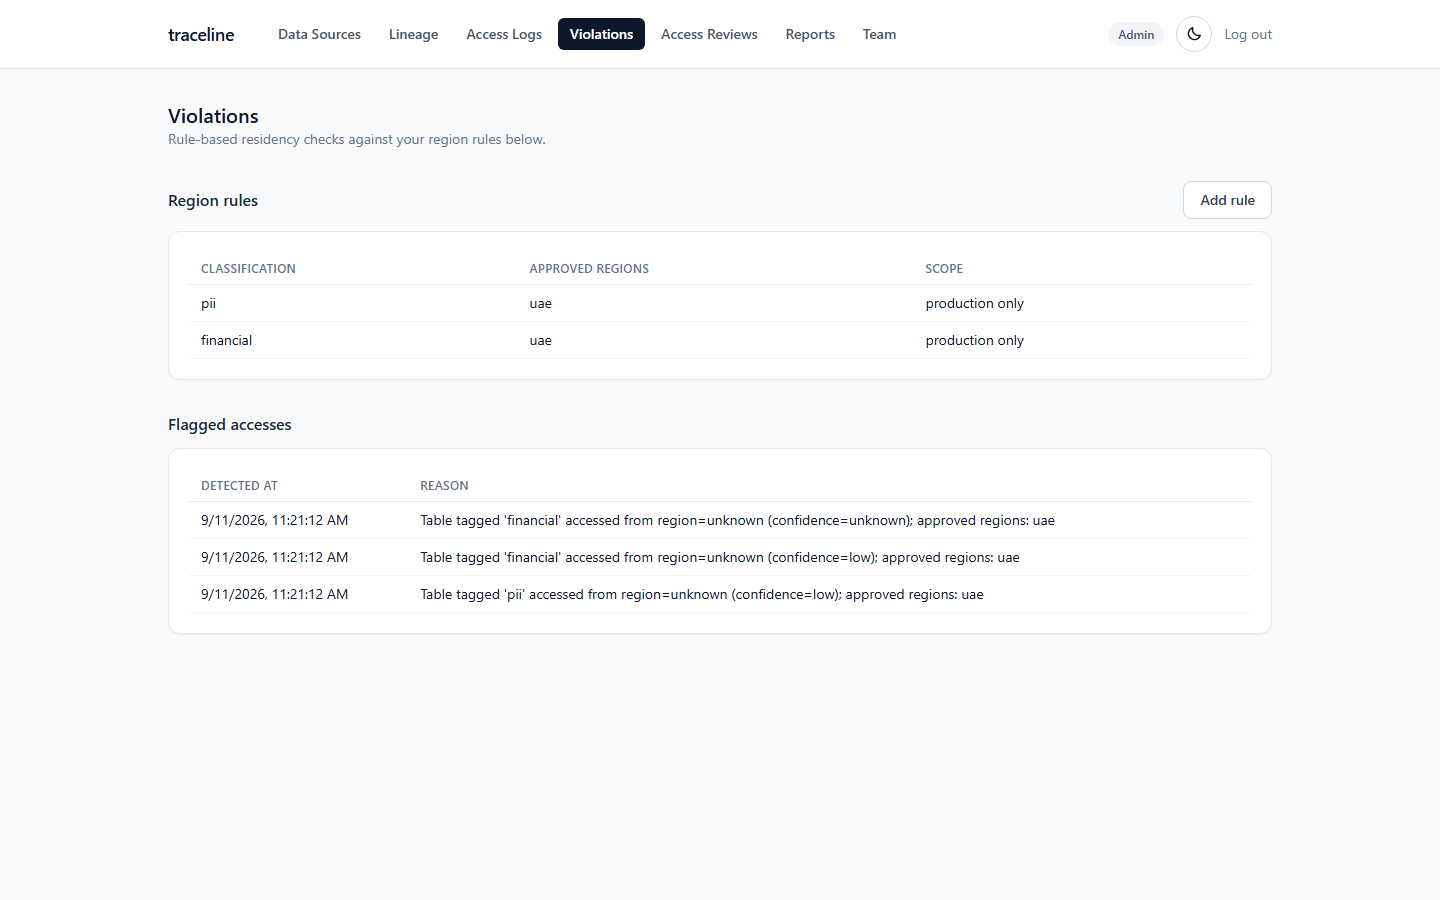
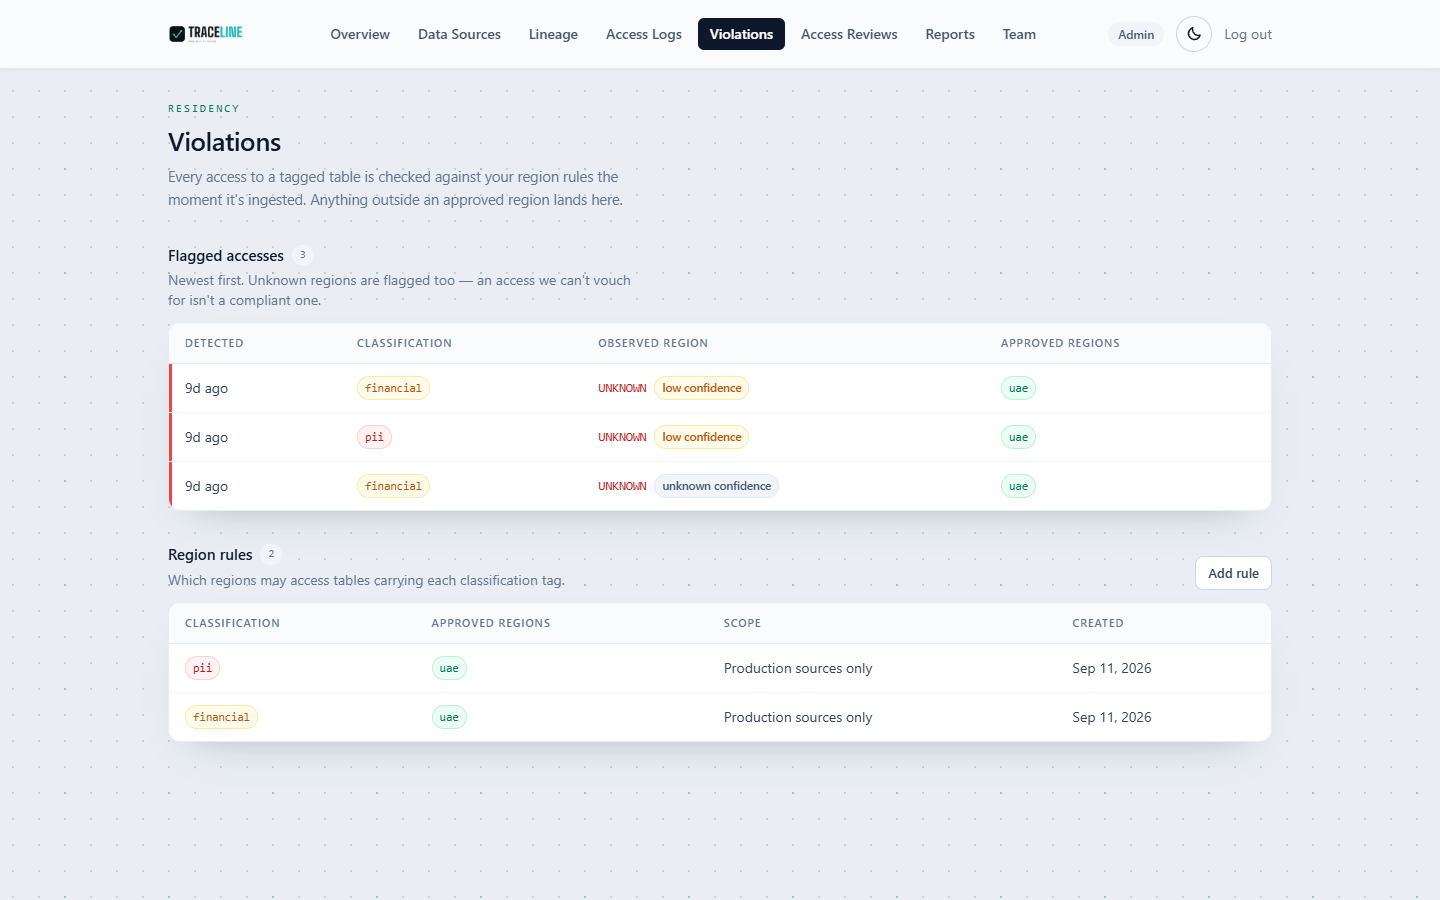
Bring the README up to date with the new front end, and fix the sensitive-table count
All eight screenshots predated the redesign, the README never mentioned
the 3D landing story, the Overview page or the shared UI primitives, and
the deploy section still described the cross-site cookie setup that the
same-origin /api proxy replaced. Recaptured everything from the live
site signed in with the demo account (real seeded data, not stubs), and
added story-beat, dark-mode, Team and phone captures.

New sections: the landing story, Overview, an on-a-phone note, and a
"September 2026 pass" summary covering the security audit, the mobile
Safari login fix, the mobile layout fix and the UI overhaul. The deploy
section now explains the proxy and why it exists, TRACELINE_ENV's
startup guard, and is honest that COOKIE_SAMESITE=lax is expected to
work behind the proxy but hasn't been exercised. Known limitations now
says plainly that the demo admin login is public.

The live data also exposed a bug in the new Overview: the "sensitive
tables" tile counted any tagged table, including ones tagged 'public'.
It now uses the backend's own definition (any tag other than 'public').

diff --git a/frontend/app/(dashboard)/overview/page.tsx b/frontend/app/(dashboard)/overview/page.tsx
@@ -195,7 +195,9 @@ export default function OverviewPage() {
   }, []);
 
   const verified = snap ? snap.sources.filter((s) => s.read_only_verified === true).length : 0;
-  const sensitive = snap ? snap.tables.filter((t) => t.current_tags.length > 0).length : 0;
+  // Same definition the backend uses for review candidates: a table is
+  // sensitive if it carries any tag other than 'public'.
+  const sensitive = snap ? snap.tables.filter((t) => t.current_tags.some((tag) => tag.tag !== "public")).length : 0;
   const pending = snap ? snap.cycles.reduce((n, c) => n + c.pending_count, 0) : 0;
   const latestViolation = snap ? [...snap.violations].sort((a, b) => b.detected_at.localeCompare(a.detected_at))[0] : undefined;
   const attention = snap ? buildAttention(snap) : [];

diff --git a/README.md b/README.md
@@ -10,10 +10,13 @@ The part of SOC 2 Type II and ISO 27001 that Vanta, Drata, and Secureframe
 still leave as a manual spreadsheet exercise for any company with a
 self-hosted or non-standard database.
 
+**[Live demo → traceline-pi.vercel.app](https://traceline-pi.vercel.app)**
+Sign in with `admin@demo-fintech.ae` / `demo-password-change-me`
+
 </div>
 
 <p align="center">
-  <img src="docs/screenshots/landing-hero-light.png" width="90%" alt="Traceline landing page">
+  <img src="docs/screenshots/landing-hero-light.png" width="90%" alt="Traceline landing page: a 3D access graph beside the headline">
 </p>
 
 ---
@@ -43,6 +46,33 @@ DIFC, ADGM, VARA) for teams that need that specifically — see
 <p align="center">
   <img src="docs/screenshots/landing-hero-dark.png" width="90%" alt="Traceline landing page in dark mode">
 </p>
+
+---
+
+## The landing page tells the story in 3D
+
+The top of the marketing page is one pinned WebGL scene — the product's
+own access graph (pipelines → tables ← actors) — that stays on screen
+while five short beats scroll past and drive it. Scrolling *is* the play
+button: the graph goes from alive, to the tangled
+nobody-knows-who-touched-what state, to tables picking up their tag
+rings, to an out-of-region client lighting a red edge into `customers`
+from outside the approved-region shell, to the whole thing collapsing
+into a hash-stamped report grid. Drag orbits it; hovering a node shows
+the same detail line the real Lineage page does, and the node names match
+the seed data, so the demo continues the story after you sign in.
+
+<p align="center">
+  <img src="docs/screenshots/landing-story-tag.png" width="32%" alt="Beat 3: tables pick up pii / financial / public tag rings">
+  <img src="docs/screenshots/landing-story-violation.png" width="32%" alt="Beat 4: an out-of-region client lights a red edge outside the approved-region shell">
+  <img src="docs/screenshots/landing-story-report.png" width="32%" alt="Beat 5: the graph collapses into a hash-stamped report grid">
+</p>
+
+It's three.js via React Three Fiber, loaded with `next/dynamic` so it
+never touches the server render. Phones, `prefers-reduced-motion`, and
+browsers without WebGL get a stacked layout with a 2D graph instead —
+the page never *depends* on the scene rendering. See
+`frontend/components/marketing/story/`.
 
 ---
 
@@ -115,11 +145,34 @@ after the fact and still pass as the original.
 
 ## The product, page by page
 
+Every page shares one set of primitives (`frontend/components/ui/`): a
+page header, semantic pills, relative timestamps with the exact time on
+hover, skeleton rows while loading, and empty states that say what to do
+next. Tag colours are the same everywhere — `pii` red, `financial` amber,
+`public` slate — in tables, the lineage graph, and the landing-page scene.
+
+### Overview
+Where you land after signing in. Four stat tiles (data sources, sensitive
+tables, open violations, pending review decisions — coloured only when
+something needs action), a *Needs attention* list that links straight to
+the page that fixes each item, a recent-access feed, and the latest
+report with its hash. It's composed entirely from endpoints the other
+pages already call; there's no separate "dashboard" backend.
+
+<p align="center">
+  <img src="docs/screenshots/dashboard-overview.png" width="85%" alt="Overview page">
+</p>
+
+<p align="center">
+  <img src="docs/screenshots/dashboard-overview-dark.png" width="85%" alt="Overview page in dark mode">
+</p>
+
 ### Data Sources
 Connect a Postgres instance with a read-only credential. Traceline
-validates the role actually has no write grants and flags it if it does,
-and shows whether its own logging-coverage check is passing — so you know
-what you can and can't see, rather than assuming full coverage.
+validates the role actually has no write grants and flags it if it does
+(the status pill reads *read-only verified*, *unverified* or *not
+read-only*), and shows when it was last checked — so you know what you
+can and can't see, rather than assuming full coverage.
 
 <p align="center">
   <img src="docs/screenshots/dashboard-data-sources.png" width="85%" alt="Data Sources page">
@@ -139,10 +192,12 @@ onto the node itself.
 </p>
 
 ### Access Logs
-A searchable, filterable feed of every access event: actor, actor type
-(human vs. service account), query type, table, source region, and how
-confident Traceline is in that region — best-effort labeled, never claimed
-as a guarantee.
+A feed of every access event: actor, actor type (human vs. service
+account), query type, table, source IP, source region, and how confident
+Traceline is in that region — best-effort labeled, never claimed as a
+guarantee. Filters apply as you type rather than behind an Apply button,
+and an open logging-coverage gap shows as a banner instead of being
+silently ignored.
 
 <p align="center">
   <img src="docs/screenshots/dashboard-access-logs.png" width="85%" alt="Access Logs page">
@@ -150,8 +205,10 @@ as a guarantee.
 
 ### Violations
 Region rules (e.g. "PII must stay in `uae`") evaluated against real
-access events. Non-production sources can be excluded so staging traffic
-doesn't drown out signal.
+access events. Each flagged access is broken out into its classification,
+the region it was observed from (with confidence), and the regions that
+were approved — not a sentence to parse. Non-production sources can be
+excluded so staging traffic doesn't drown out signal.
 
 <p align="center">
   <img src="docs/screenshots/dashboard-violations.png" width="85%" alt="Violations page">
@@ -164,7 +221,9 @@ lookback window, a live database GRANT found at generation time, or both,
 labeled accordingly so a dormant-but-still-granted permission can't hide
 behind "nobody's queried it lately" — and approve or revoke each one.
 Decisions are permanent once made — a wrong call is corrected by the
-*next* cycle, never by editing history.
+*next* cycle, never by editing history. A progress bar shows how much of
+the cycle is decided, and a pending item that's been sitting too long
+gets an amber stripe.
 
 <p align="center">
   <img src="docs/screenshots/dashboard-access-reviews.png" width="85%" alt="Access Reviews page">
@@ -184,6 +243,22 @@ Manage who's an authorized reviewer (a separate flag from admin — a
 manager can review without being a Traceline admin) and attribute service
 accounts to a real person, so a pipeline credential never shows up as
 unowned "system" noise in a review.
+
+<p align="center">
+  <img src="docs/screenshots/dashboard-team.png" width="85%" alt="Team page">
+</p>
+
+### On a phone
+The nav collapses to a menu, headers and tiles stack, and wide tables
+scroll sideways inside their own card instead of pushing the page around.
+No page scrolls horizontally at phone width. The landing page swaps the
+3D scene for its stacked 2D layout.
+
+<p align="center">
+  <img src="docs/screenshots/mobile-landing.png" width="28%" alt="Landing page on a phone">
+  <img src="docs/screenshots/mobile-overview.png" width="28%" alt="Overview on a phone">
+  <img src="docs/screenshots/mobile-access-reviews.png" width="28%" alt="Access Reviews on a phone">
+</p>
 
 ---
 
@@ -213,6 +288,7 @@ the same `access_event` stream.
 | Worker | APScheduler, in-process | one fewer moving part than Celery/Redis for this workload |
 | Auth | Self-hosted JWT (httpOnly cookie) | no external account dependency for an MVP |
 | Frontend | Next.js 14 (App Router) + Tailwind + Motion | real interactivity, not a static marketing shell |
+| Landing scene | three.js via React Three Fiber 8 + drei 9 | the React 18 line; lazy-loaded, never server-rendered, 2D fallback |
 | Tenancy | App-level filtering + Postgres RLS | defense in depth, not either/or |
 
 ---
@@ -308,11 +384,21 @@ formality: frontend on Vercel, everything stateful on Railway.
 
 ```mermaid
 flowchart LR
-    Browser --> V["Vercel<br/>Next.js frontend"]
-    V -- "HTTPS, credentials: include" --> R["Railway<br/>FastAPI backend"]
+    Browser -- "same-origin /api/*" --> V["Vercel<br/>Next.js frontend"]
+    V -- "rewrite (next.config.js)" --> R["Railway<br/>FastAPI backend"]
     R --> PG[("Railway Postgres<br/>metadata, RLS-isolated")]
     W["Railway worker service<br/>(same image, different start command)"] --> PG
 ```
+
+**The browser never talks to Railway directly.** Every API call goes to
+the frontend's own origin at `/api/*`, and `frontend/next.config.js`
+rewrites it to the backend. That's not tidiness: the frontend
+(`vercel.app`) and backend (`railway.app`) are different sites, so a
+session cookie set by the backend is a *third-party* cookie, which iOS
+Safari drops by default — login returned 200 and then bounced straight
+back to the sign-in page on phones, while desktop kept working. Routed
+through the proxy, the cookie is first-party in every browser. Report
+downloads use the same `/api/...` path for the same reason.
 
 ### 1. Backend + worker + metadata Postgres, on Railway
 
@@ -334,12 +420,18 @@ flowchart LR
      network.
    - `JWT_SECRET` -- generate one: `python -c "import secrets; print(secrets.token_urlsafe(48))"`
    - `CREDENTIALS_ENCRYPTION_KEY` -- generate one: `python -c "from cryptography.fernet import Fernet; print(Fernet.generate_key().decode())"`
+   - `TRACELINE_ENV=production` -- the app refuses to boot outside
+     `local` if `JWT_SECRET` or `CREDENTIALS_ENCRYPTION_KEY` are still the
+     development defaults, so a forgotten secret fails loudly at startup
+     rather than silently shipping.
    - `CORS_ALLOWED_ORIGINS` = your Vercel URL (set after step 2 below;
-     redeploy once you have it).
-   - `COOKIE_SECURE=true`, `COOKIE_SAMESITE=none` -- **required**, not
-     optional, because the frontend and backend are on different origins.
-     A `Lax` cookie is silently never sent cross-site no matter what the
-     frontend's `fetch` call says.
+     redeploy once you have it). Browser traffic now arrives through the
+     frontend's proxy, so this only matters for anything calling the API
+     cross-origin directly.
+   - `COOKIE_SECURE=true`, `COOKIE_SAMESITE=none` -- what the hosted demo
+     runs. With the `/api` proxy in place the cookie is first-party, so
+     `lax` is expected to work too, but that hasn't been exercised in the
+     hosted setup.
 3. Create a **second** service, same repo, same root directory
    (`backend`), same environment variables as step 2 -- but override its
    **Start Command** (Settings → Deploy) to `python -m app.worker.scheduler`.
@@ -370,7 +462,9 @@ code, just from seeded rather than tailed input. Run it locally via
    Vercel auto-detects Next.js from there, no config file needed.
 2. Set the environment variable `NEXT_PUBLIC_API_BASE_URL` to your
    Railway backend service's public URL (Settings → Networking →
-   Generate Domain on that service if it doesn't have one yet).
+   Generate Domain on that service if it doesn't have one yet). Despite
+   the name, the browser never sees it any more: it's read by
+   `next.config.js` as the target of the `/api/*` rewrite.
 3. Deploy. Then go back to the Railway backend service and set
    `CORS_ALLOWED_ORIGINS` to the Vercel URL you just got, and redeploy it
    -- the two need each other's URLs, so this is a one-time back-and-forth
@@ -401,11 +495,21 @@ traceline/
         reports.py              # CSV export + SHA-256 hashing
       worker/scheduler.py      # APScheduler polling loop
     scripts/seed_demo.py       # idempotent local/cloud demo data (real + synthetic)
-    tests/                     # tenancy isolation, idempotency, reports, access review, rbac, region
+    tests/                     # tenancy isolation, idempotency, reports, access review, rbac, region, security hardening
   frontend/
-    app/                       # marketing site (/) + login + (dashboard) route group
+    next.config.js             # /api/* -> backend rewrite (keeps the session cookie first-party)
+    app/                       # marketing site (/) + login + (dashboard) route group, incl. /overview
+    components/ui/             # PageHeader, Pill, Time, EmptyState, Skeleton, CopyButton
     components/marketing/      # landing page components (Motion + Phosphor icons)
+    components/marketing/story/ # the pinned 3D scroll story: scene, beats, graph data
+    components/LineageGraph.tsx # the in-product zoomable lineage graph
+    lib/api-client.ts           # always calls same-origin /api
+    lib/violations.ts           # parses the backend's violation reason back into fields
     lib/CurrentUserContext.tsx  # role/can_review, read by pages to gate UI (backend re-checks independently)
+  docs/
+    business-case.md           # investor business case, sourced, with an open-questions list
+    presentation/              # design-partner deck + business-case deck (self-contained HTML)
+    screenshots/               # everything embedded in this README
 ```
 
 ---
@@ -499,8 +603,46 @@ Three of them were closed, and one was upgraded from "manual only" to
   and `localStorage` mechanism the marketing site already used, just no
   longer scoped away from the product itself.
 
+## The September 2026 pass: hardening, mobile, and a new front end
+
+- **Security and robustness audit.** Report bytes now live in a Postgres
+  column (migration 0004) rather than the container's filesystem — every
+  download on the hosted demo was 500ing after a redeploy wiped `/tmp`
+  while the row survived; rows that predate the fix return `410 Gone`
+  instead. CSV exports neutralise formula injection (cells starting with
+  `= + - @`). Login does the same bcrypt work whether or not the user
+  exists, logout actually clears the cross-site cookie, a malformed JWT
+  is a 401 not a 500, duplicate emails are a 409, the last admin can't
+  demote themselves, region rules reject a blank tag or an empty region
+  list, and IP-region map entries validate their CIDR. The csvlog
+  connector caps each poll at 8 MB per source so one noisy database
+  can't OOM the worker for every workspace, and skips (rather than dies
+  on) a non-UTC timestamp. Covered by `tests/test_security_hardening.py`.
+- **Login works on phones.** See [Deploying it](#deploying-it-demo-purposes):
+  the same-origin `/api` proxy replaced a cross-site cookie that iOS
+  Safari silently dropped. Found by reproducing it in Playwright's WebKit
+  with an iPhone profile, not by guessing.
+- **Mobile layout.** Header rows and cards used fixed side-by-side flex
+  with no `min-w-0`, so an unbreakable connection string pushed the
+  Re-check button off-screen. Fixed across the dashboard, plus a
+  collapsing nav menu.
+- **A landing page that shows the product** instead of describing it —
+  the pinned 3D scroll story above, replacing three flat sections.
+- **A dashboard that reads at a glance** — the Overview page, shared UI
+  primitives, pills instead of prose, skeleton and empty states, and
+  live-applying filters. One real bug fell out of it: the shared
+  `.input`/`.card`/`.btn` classes were emitted *after* Tailwind's
+  utilities, so a per-element `w-auto` or `pl-9` silently lost the
+  cascade. They now live in `@layer components`.
+- **The demo is self-serve.** The seeded credentials are shown under
+  every sign-in button and the login page fills them in with one click.
+
 ## Known limitations
 
+- **The demo admin login is public by design**, so anyone can change the
+  demo workspace (tag a table, decide a review item, add a user).
+  Re-running the seed script resets nothing once real data exists; a
+  read-only demo role is the right fix if that becomes a problem.
 - Table-name extraction remains best-effort (`sqlparse`, not a full SQL
   parser) -- by design, not an oversight. A statement whose table
   reference doesn't match the recognized patterns yields no table, not a
